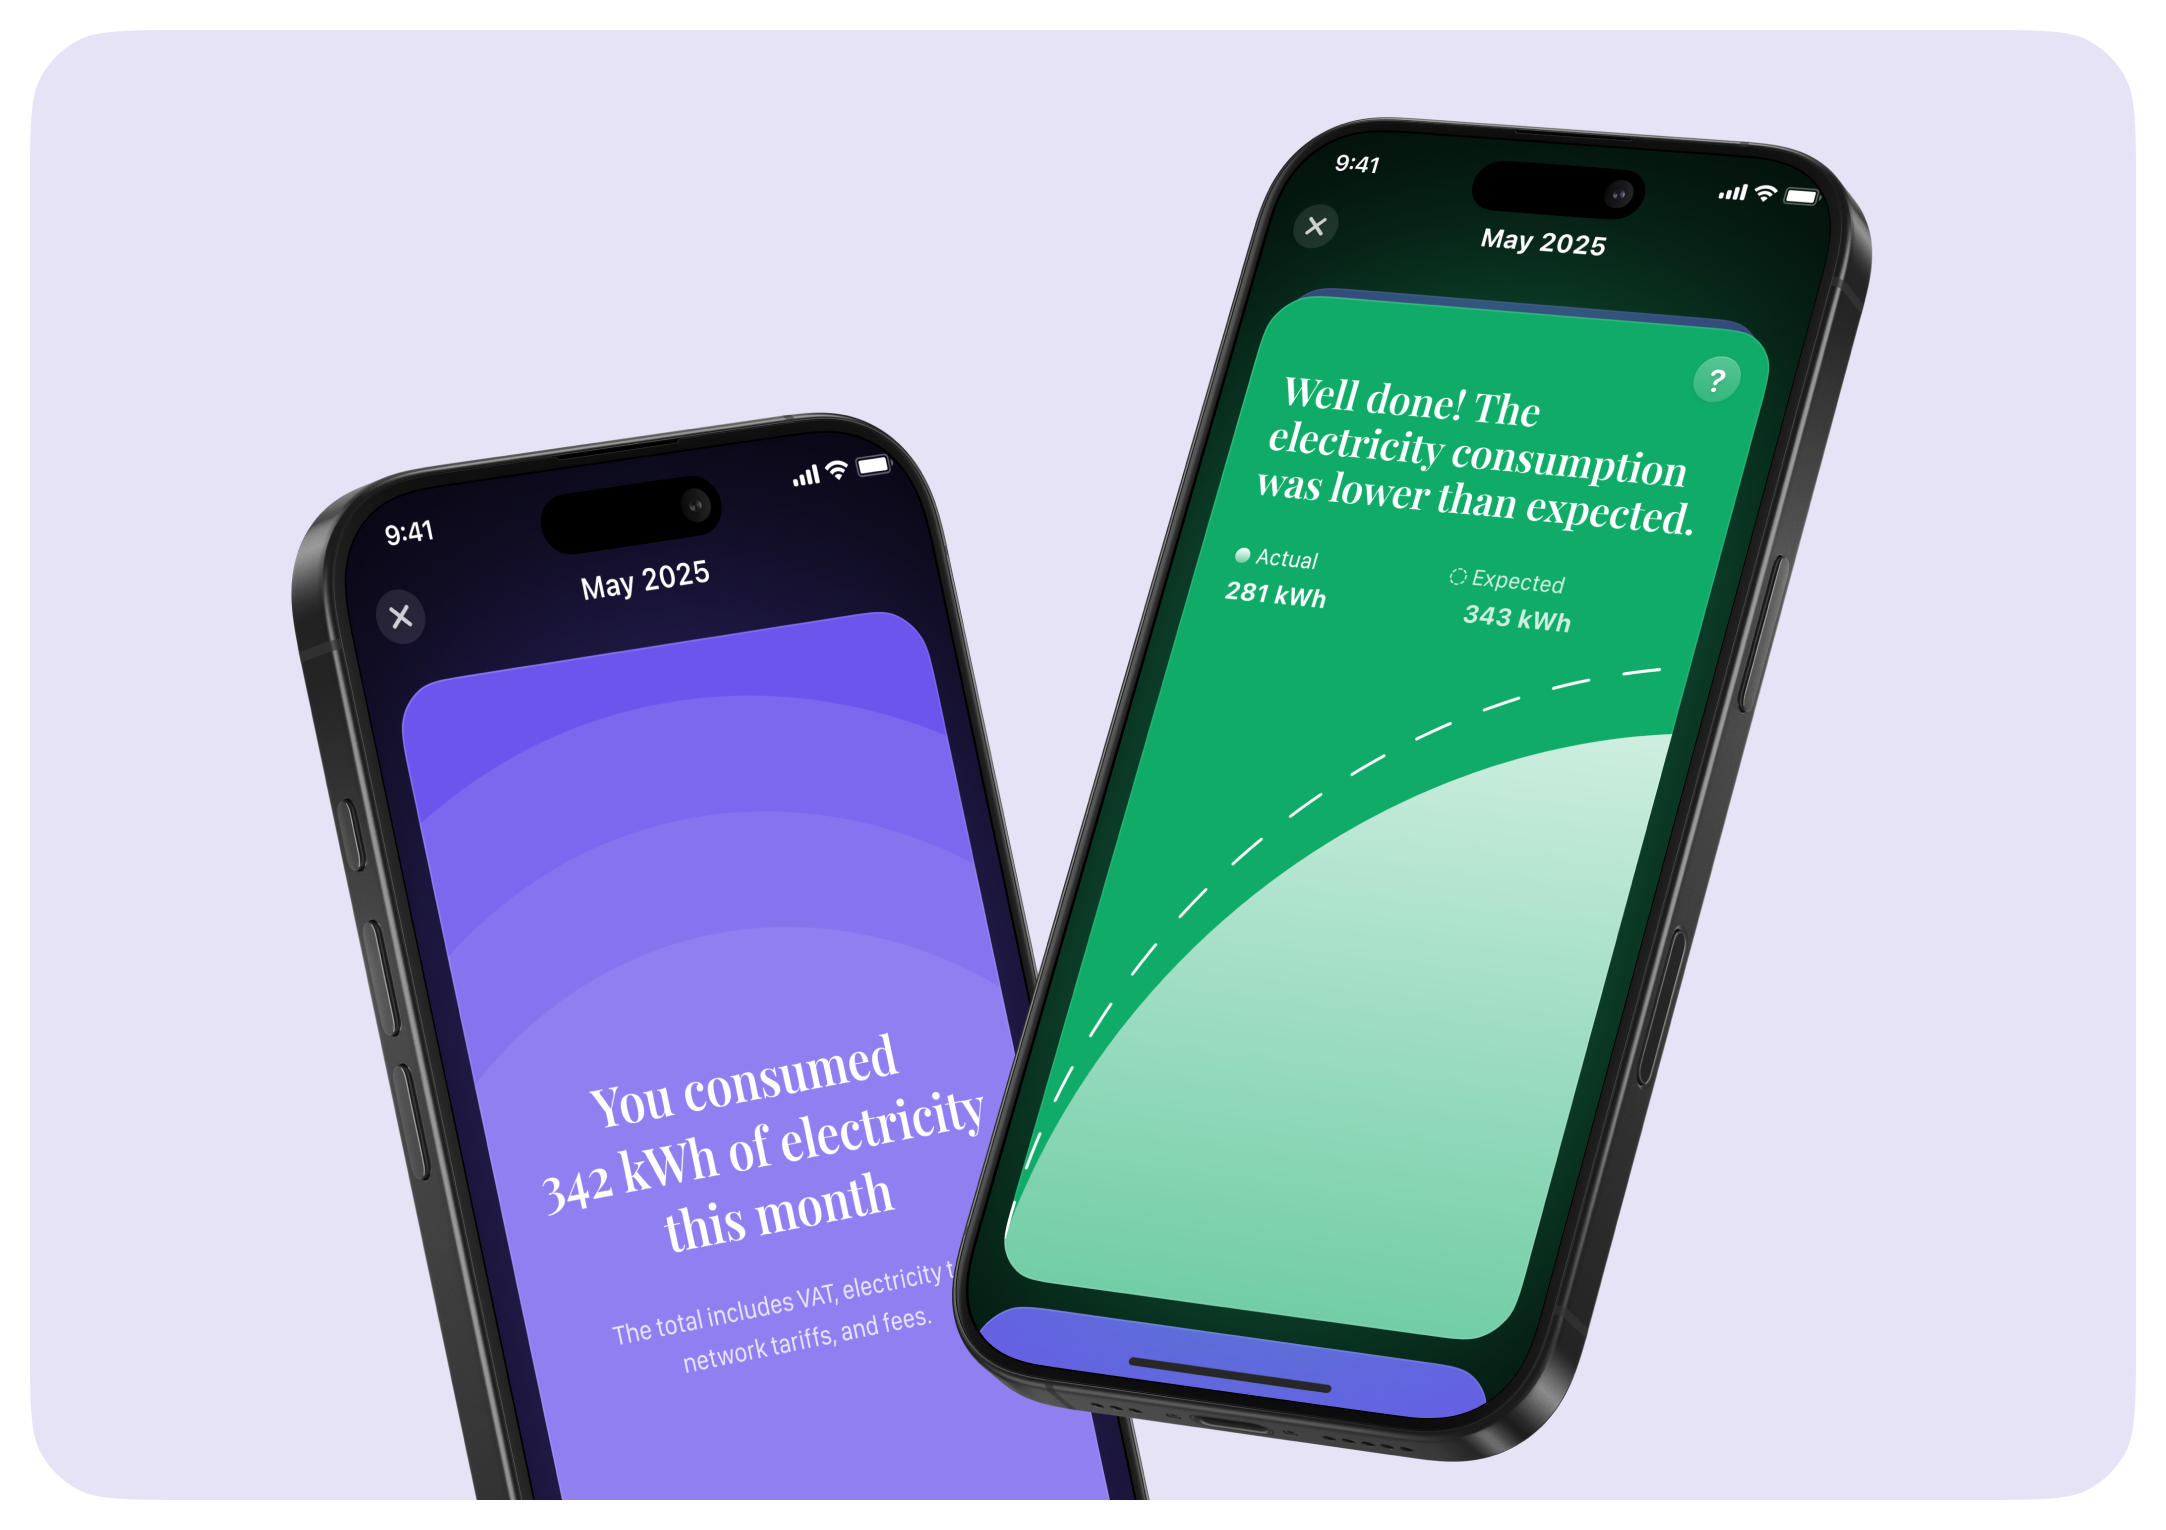
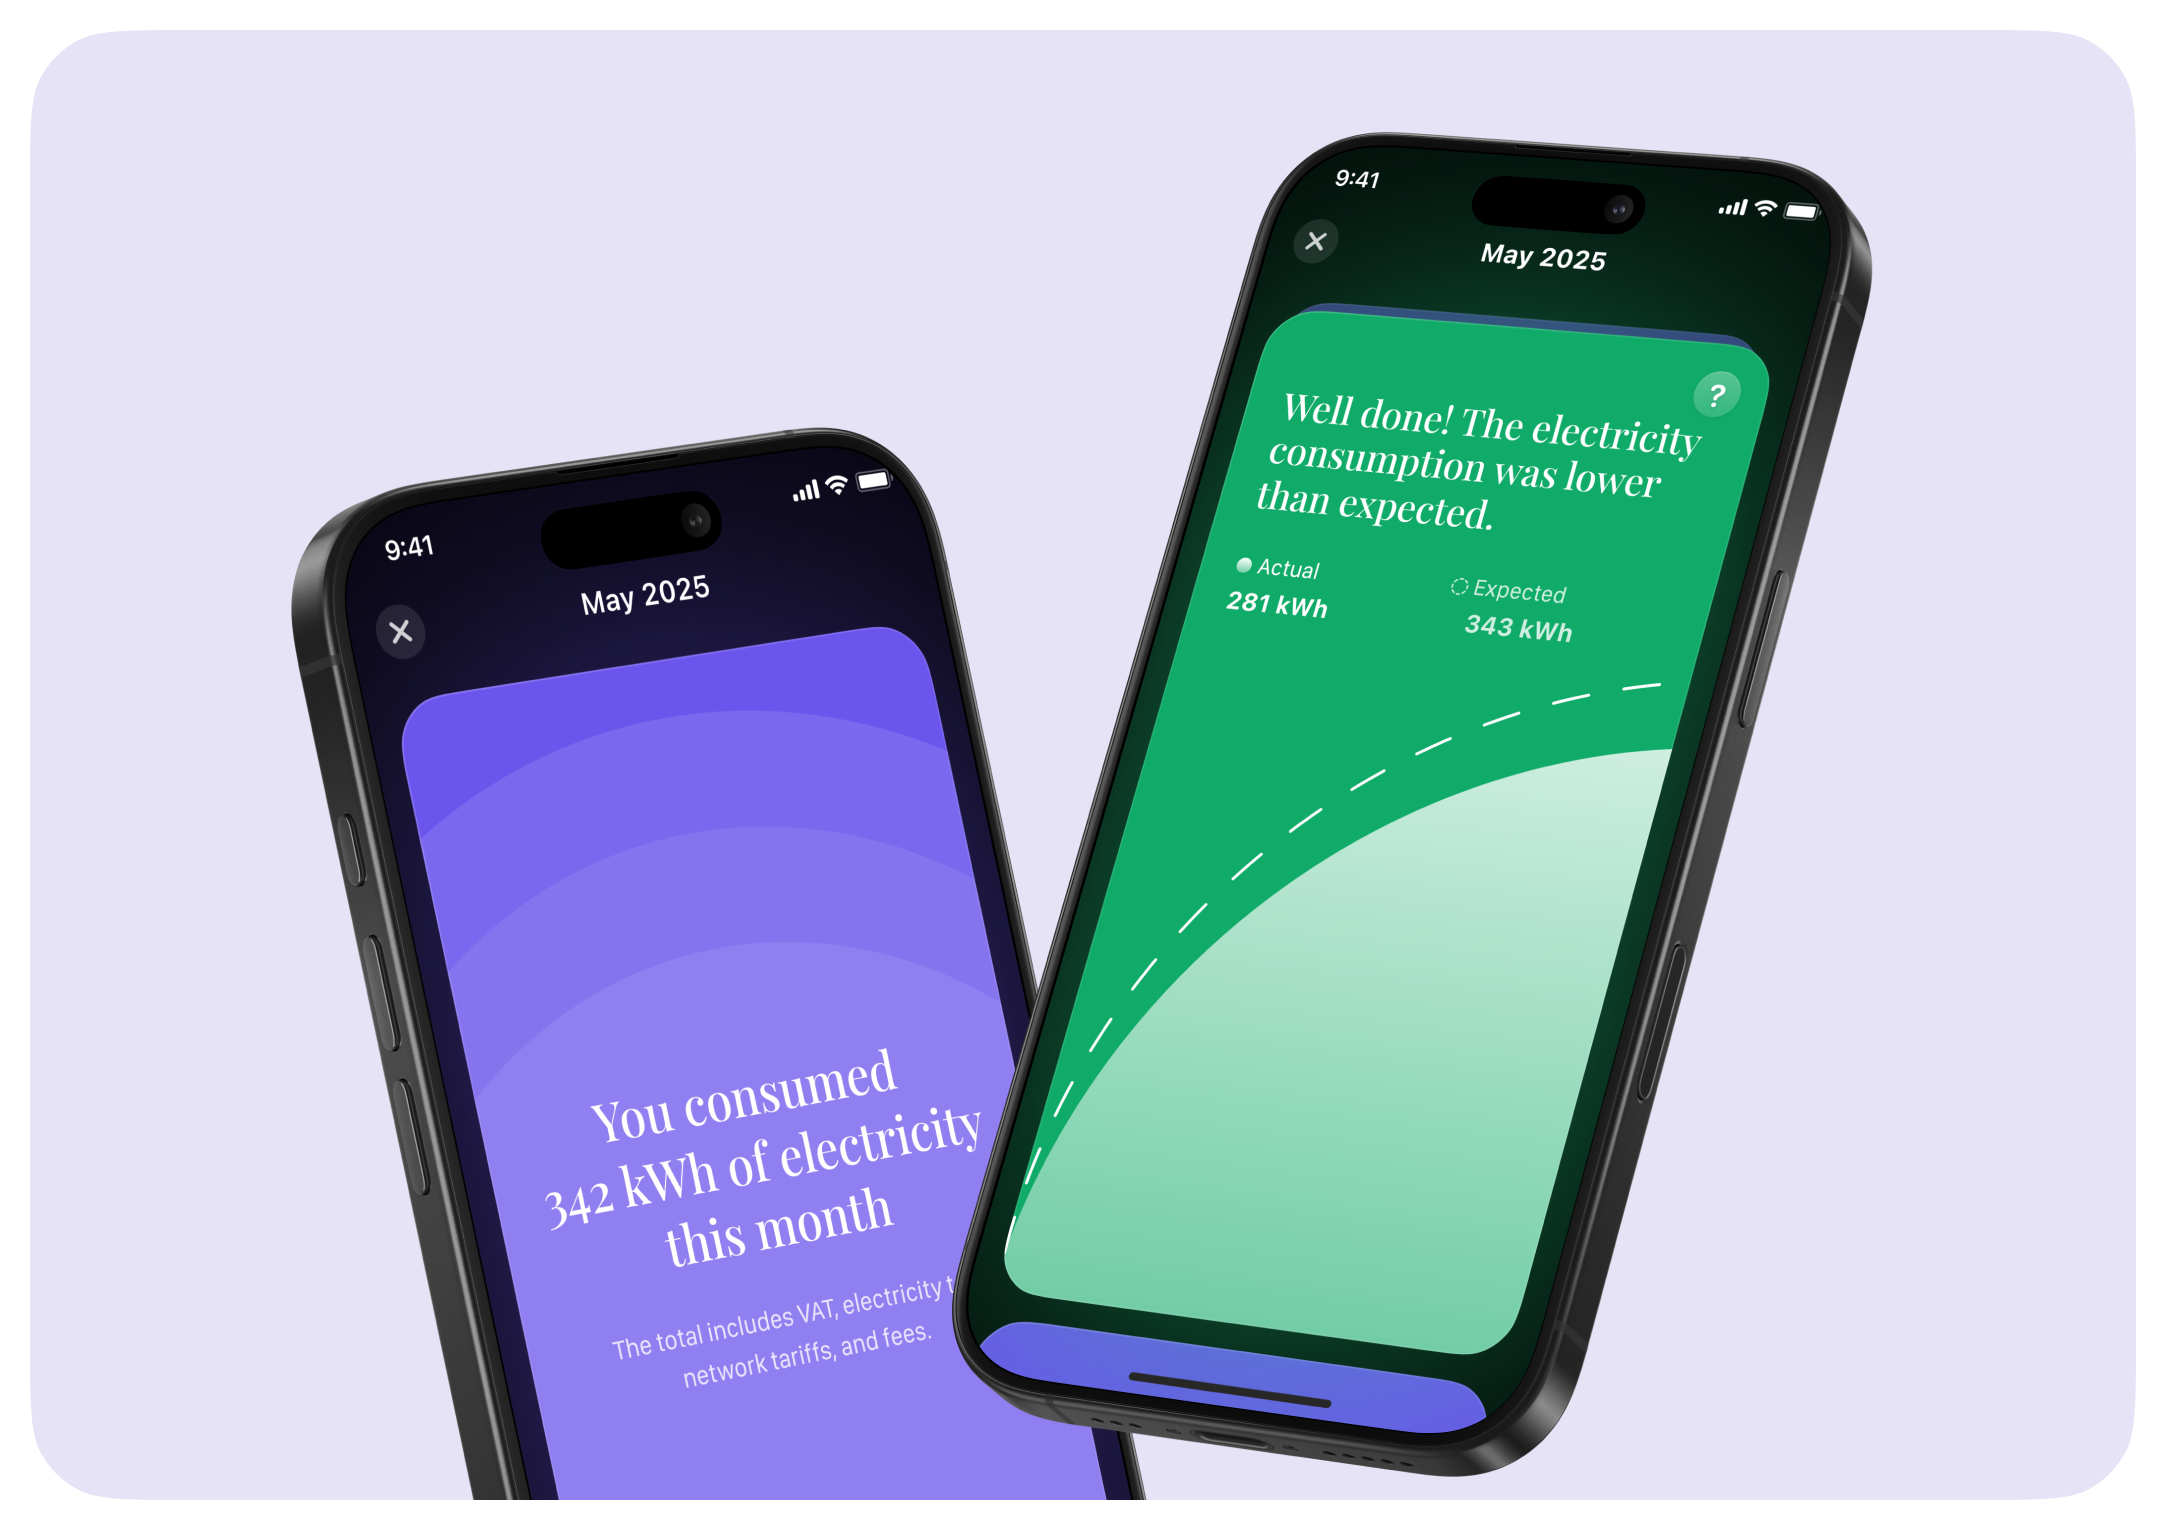
Update Norlys mockups and card image
Refresh Norlys desktop and mobile mockup exports and remove extra desktop wrapper rounding. Also update the Norlys card illustration on the case studies page.

Made-with: Cursor

Changed region(s): [[0.1237, 0.0614, 0.8661, 0.983], [0.5568, 0.5222, 0.6496, 0.6144]]

diff --git a/app/case-studies/norlys/page.tsx b/app/case-studies/norlys/page.tsx
@@ -152,7 +152,7 @@ export default function NorlysCaseStudyPage() {
             {/* Desktop mockups (unchanged) */}
             <div className="hidden lg:block">
               <div className="grid grid-cols-1 lg:grid-cols-[722px_502px] gap-[16px]">
-                <div className="relative w-full aspect-[722/510] lg:aspect-auto lg:h-[510px] overflow-hidden rounded-[40px]">
+                <div className="relative w-full aspect-[722/510] lg:aspect-auto lg:h-[510px]">
                   <Image
                     alt=""
                     src={norlys1st}
@@ -162,7 +162,7 @@ export default function NorlysCaseStudyPage() {
                     quality={100}
                   />
                 </div>
-                <div className="relative w-full aspect-[502/510] lg:aspect-auto lg:h-[510px] overflow-hidden rounded-[40px]">
+                <div className="relative w-full aspect-[502/510] lg:aspect-auto lg:h-[510px]">
                   <Image
                     alt=""
                     src={norlys2nd}
@@ -175,7 +175,7 @@ export default function NorlysCaseStudyPage() {
               </div>
 
               <div className="mt-[16px] grid grid-cols-1 lg:grid-cols-[588px_636px] gap-[16px]">
-                <div className="relative w-full aspect-[588/575] lg:aspect-auto lg:h-[575px] overflow-hidden rounded-[40px]">
+                <div className="relative w-full aspect-[588/575] lg:aspect-auto lg:h-[575px]">
                   <Image
                     alt=""
                     src={norlys3rd}
@@ -185,7 +185,7 @@ export default function NorlysCaseStudyPage() {
                     quality={100}
                   />
                 </div>
-                <div className="relative w-full aspect-[636/575] lg:aspect-auto lg:h-[575px] overflow-hidden rounded-[40px]">
+                <div className="relative w-full aspect-[636/575] lg:aspect-auto lg:h-[575px]">
                   <Image
                     alt=""
                     src={norlys4th}
